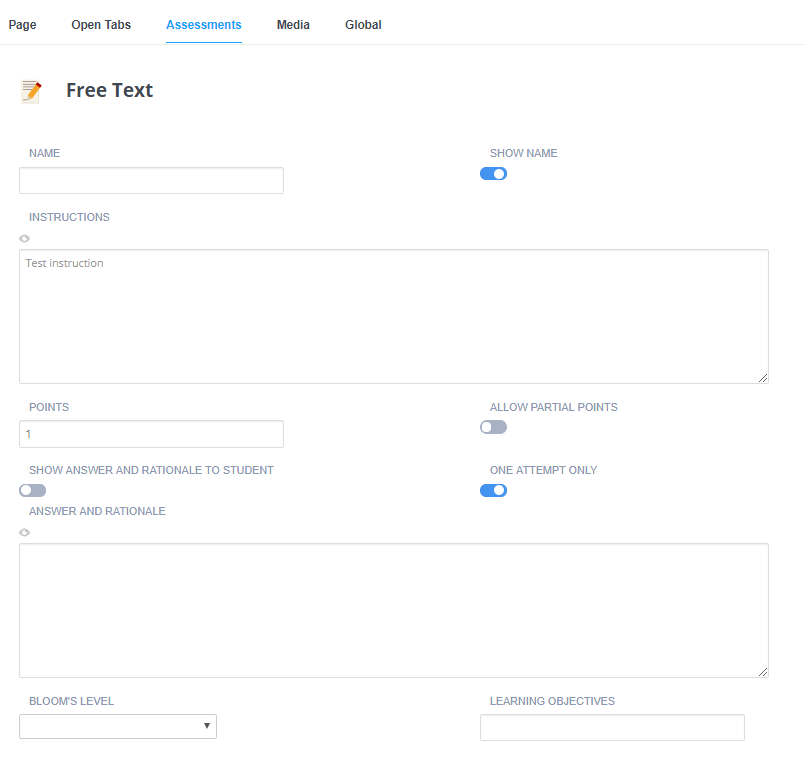
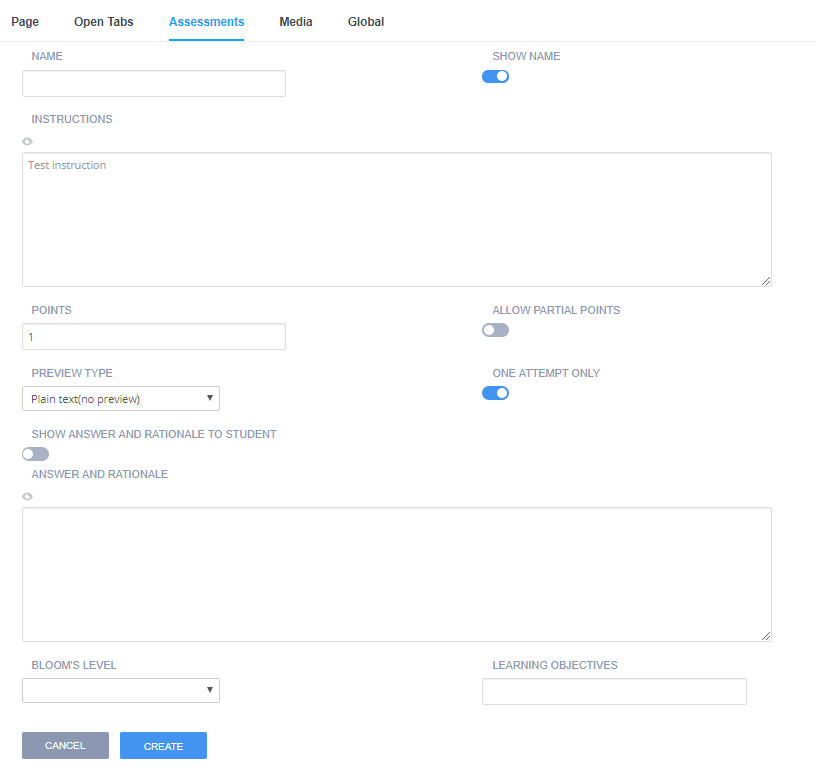
update free text assessment image

diff --git a/source/docs/content/authoring/assessments/assessments-free.html.md b/source/docs/content/authoring/assessments/assessments-free.html.md
@@ -15,6 +15,7 @@ Setting up a Free assessment within the Guide editor is very simple. As you can 
 - **Name** is a short name that describes the assessment. This name will appear in teacher dashboards, so naming it clearly is important so teachers can see precisely which challenges are successfully met (or not) by students. In many cases, you do not want to see this text appear within the challenge text the student sees. To suppress this text, flip the **Show Name** switch next to the name field.
 - **Instructions** is the actual text that should be shown to the user, written in Markdown.
 - The **Points** field is the number of points allocated for the question. You can choose any positive numeric value. Enabling the **Allow Partial Points** switch will allow the teacher when grading the answer to select the points to give for the students answer.
+- **Preview Type** 
 - **One Attempt Only** can be used to restrict the student to answering the question once. If not enabled, students will be able to edit their answer until the Unit is marked as Completed.
 - **Answer and Rationale** is where guidance for the assessment can be entered. This will be visible to the teacher when the project is opened using the [Open as Teacher](/docs/classes/unitmanagement/teachersolutions) method. This guidance information can also be shown to students after they have submitted their answer and also if they reload the unit after marking it as completed. To enable this, flip the **Show Answer and Rationale to Student** switch below the guidance field.
 

diff --git a/source/docs/misc/changelog.html.md b/source/docs/misc/changelog.html.md
@@ -13,7 +13,7 @@ We do not report small bug fixes or issues that affect individual users, who we 
 **Feature**: Release of [Books](/docs/content/authoring/books/)
 **Feature**: Add Student [IP Consent](/docs/dashboard/account/consent)
 **Improvement**: Improvement to publishing Units allowing for simpler handling of [Stack](/docs/project/stacks/stack-overview) changes
-**Feature**: [Upgrade Course](/docs/classes/unitmanagement/upgradecourse). If any updates to the course(s) used in your class are detected, you can upgrade the content to the latest version within the class
+**Feature**: [Upgrade Course](/docs/classes/unitmanagement/upgradecourse). If any updates to the course(s) used in your class are detected, you can upgrade the content to the latest version within the class. Update Unit option removed from Courses in a Class.
 
 #### August 2017
 **Feature**: Support Pug for syntax highlighting (mapping to Jade)
